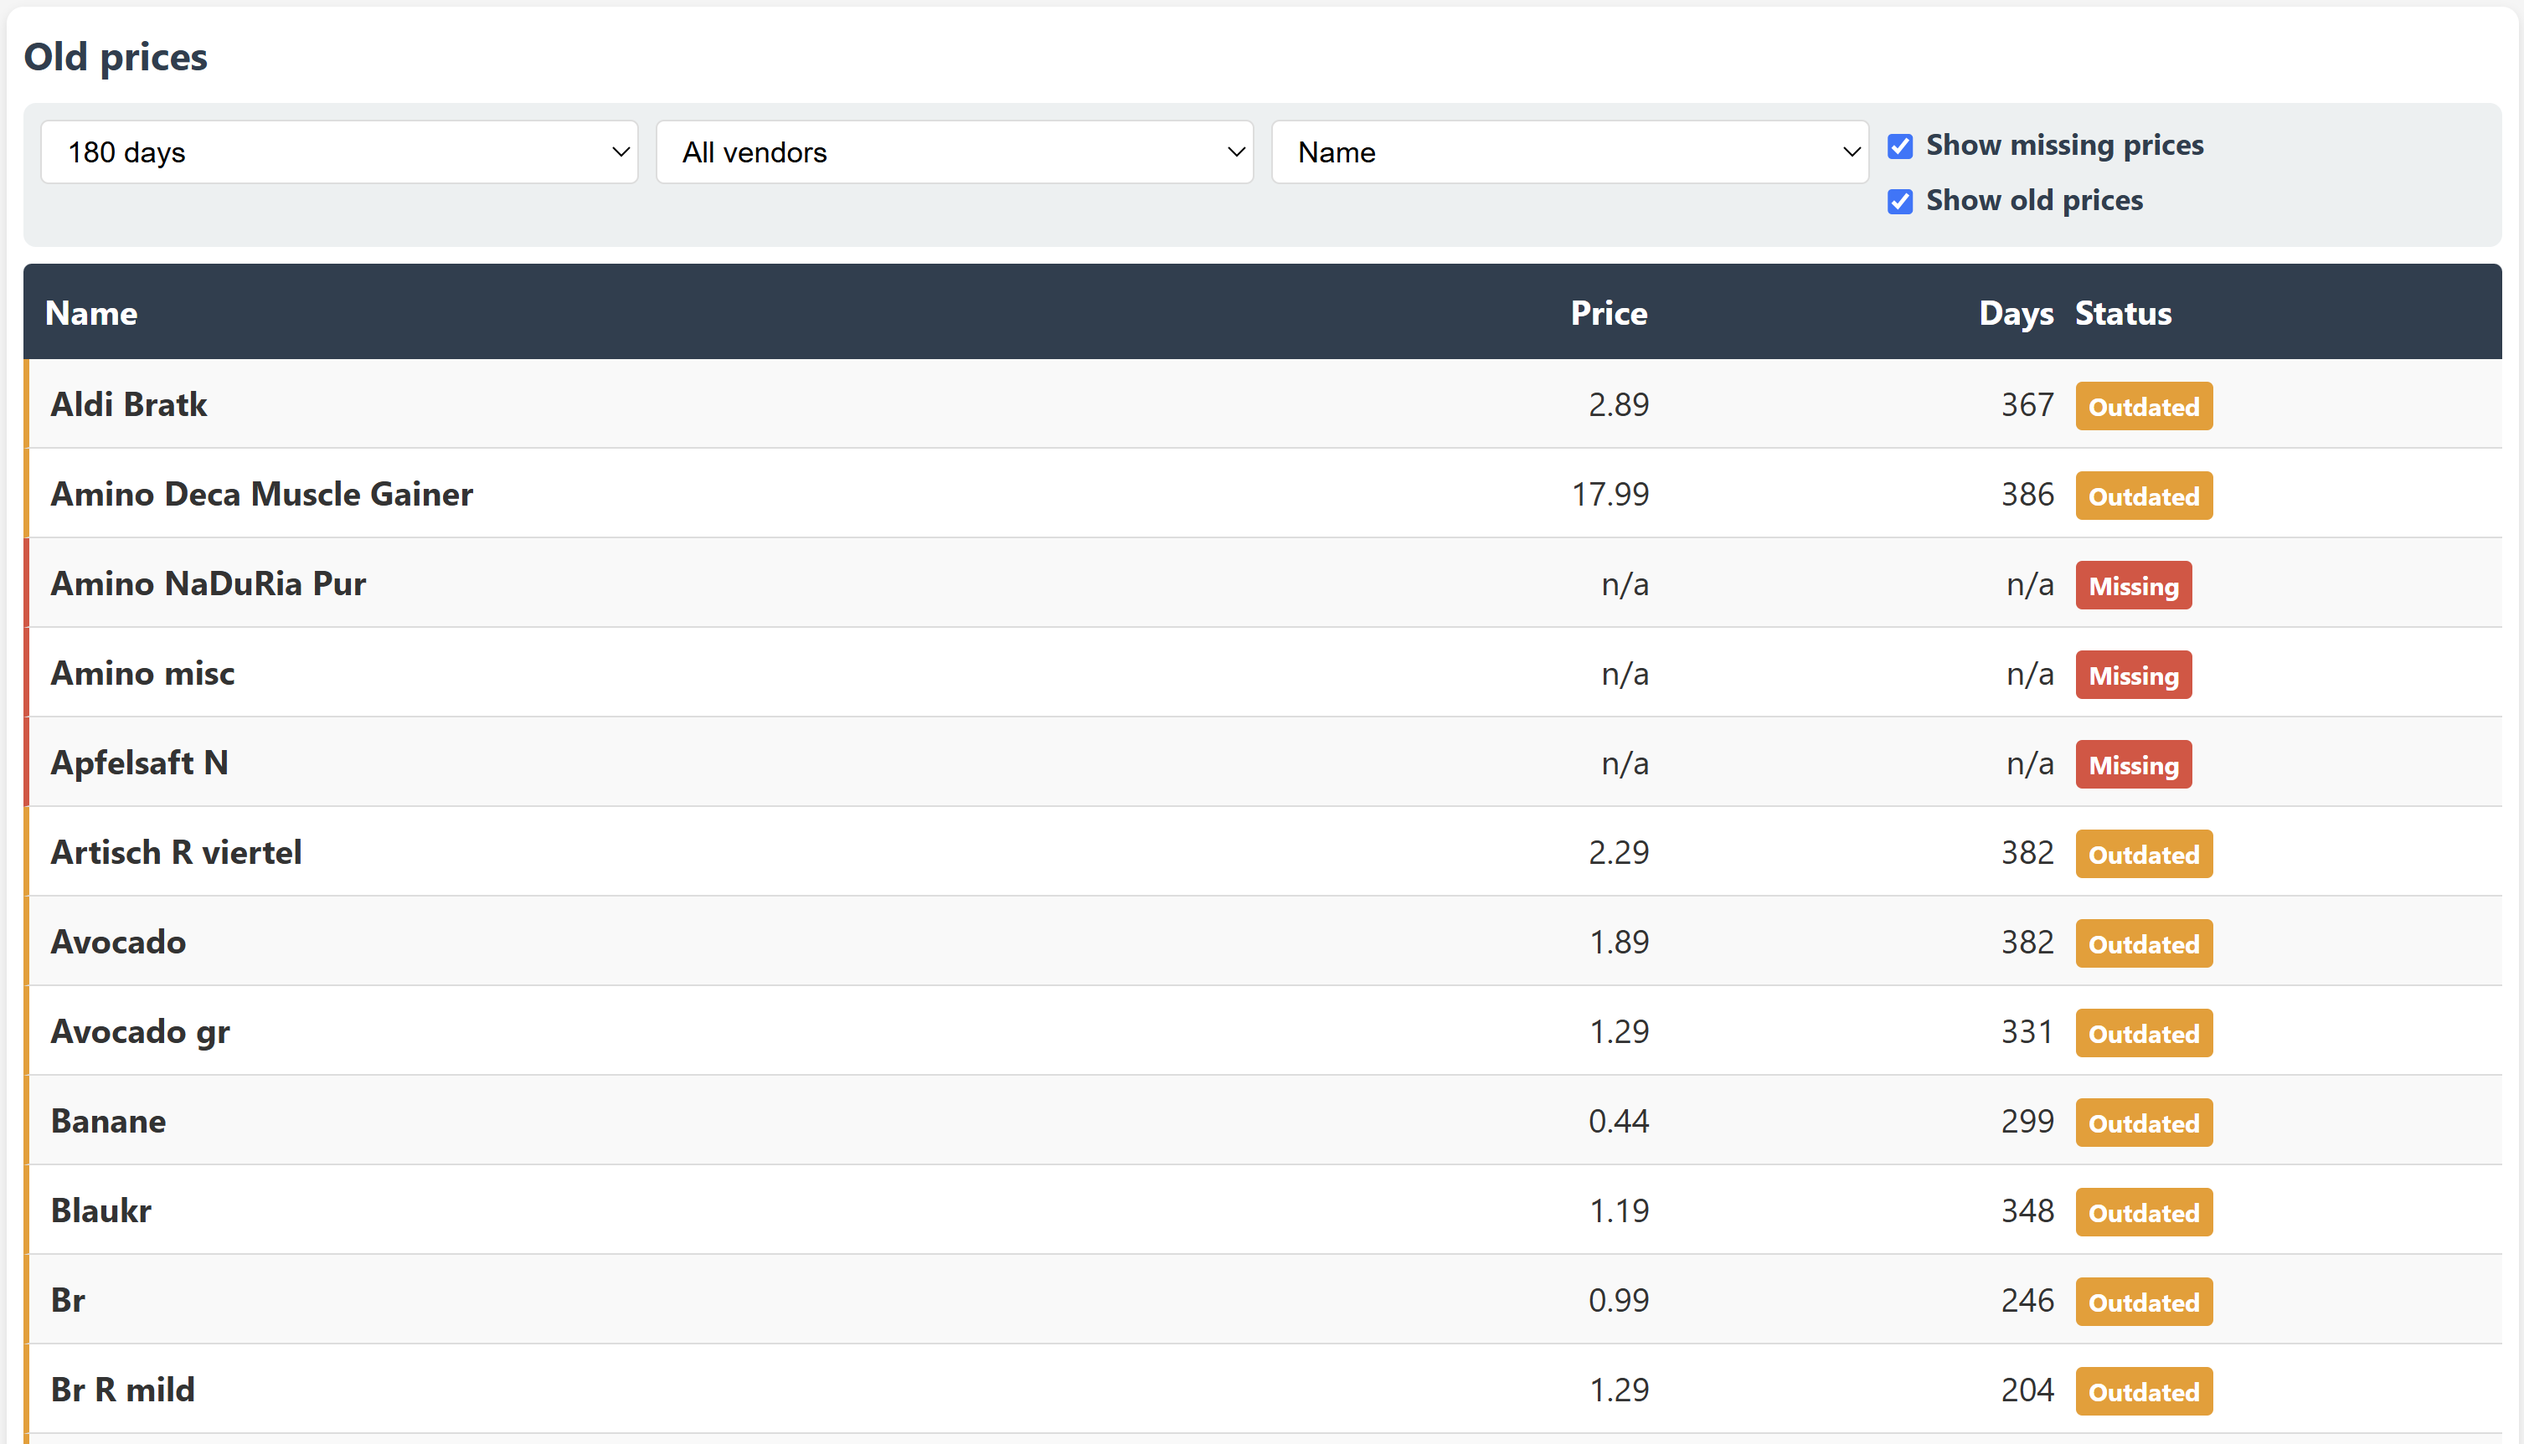
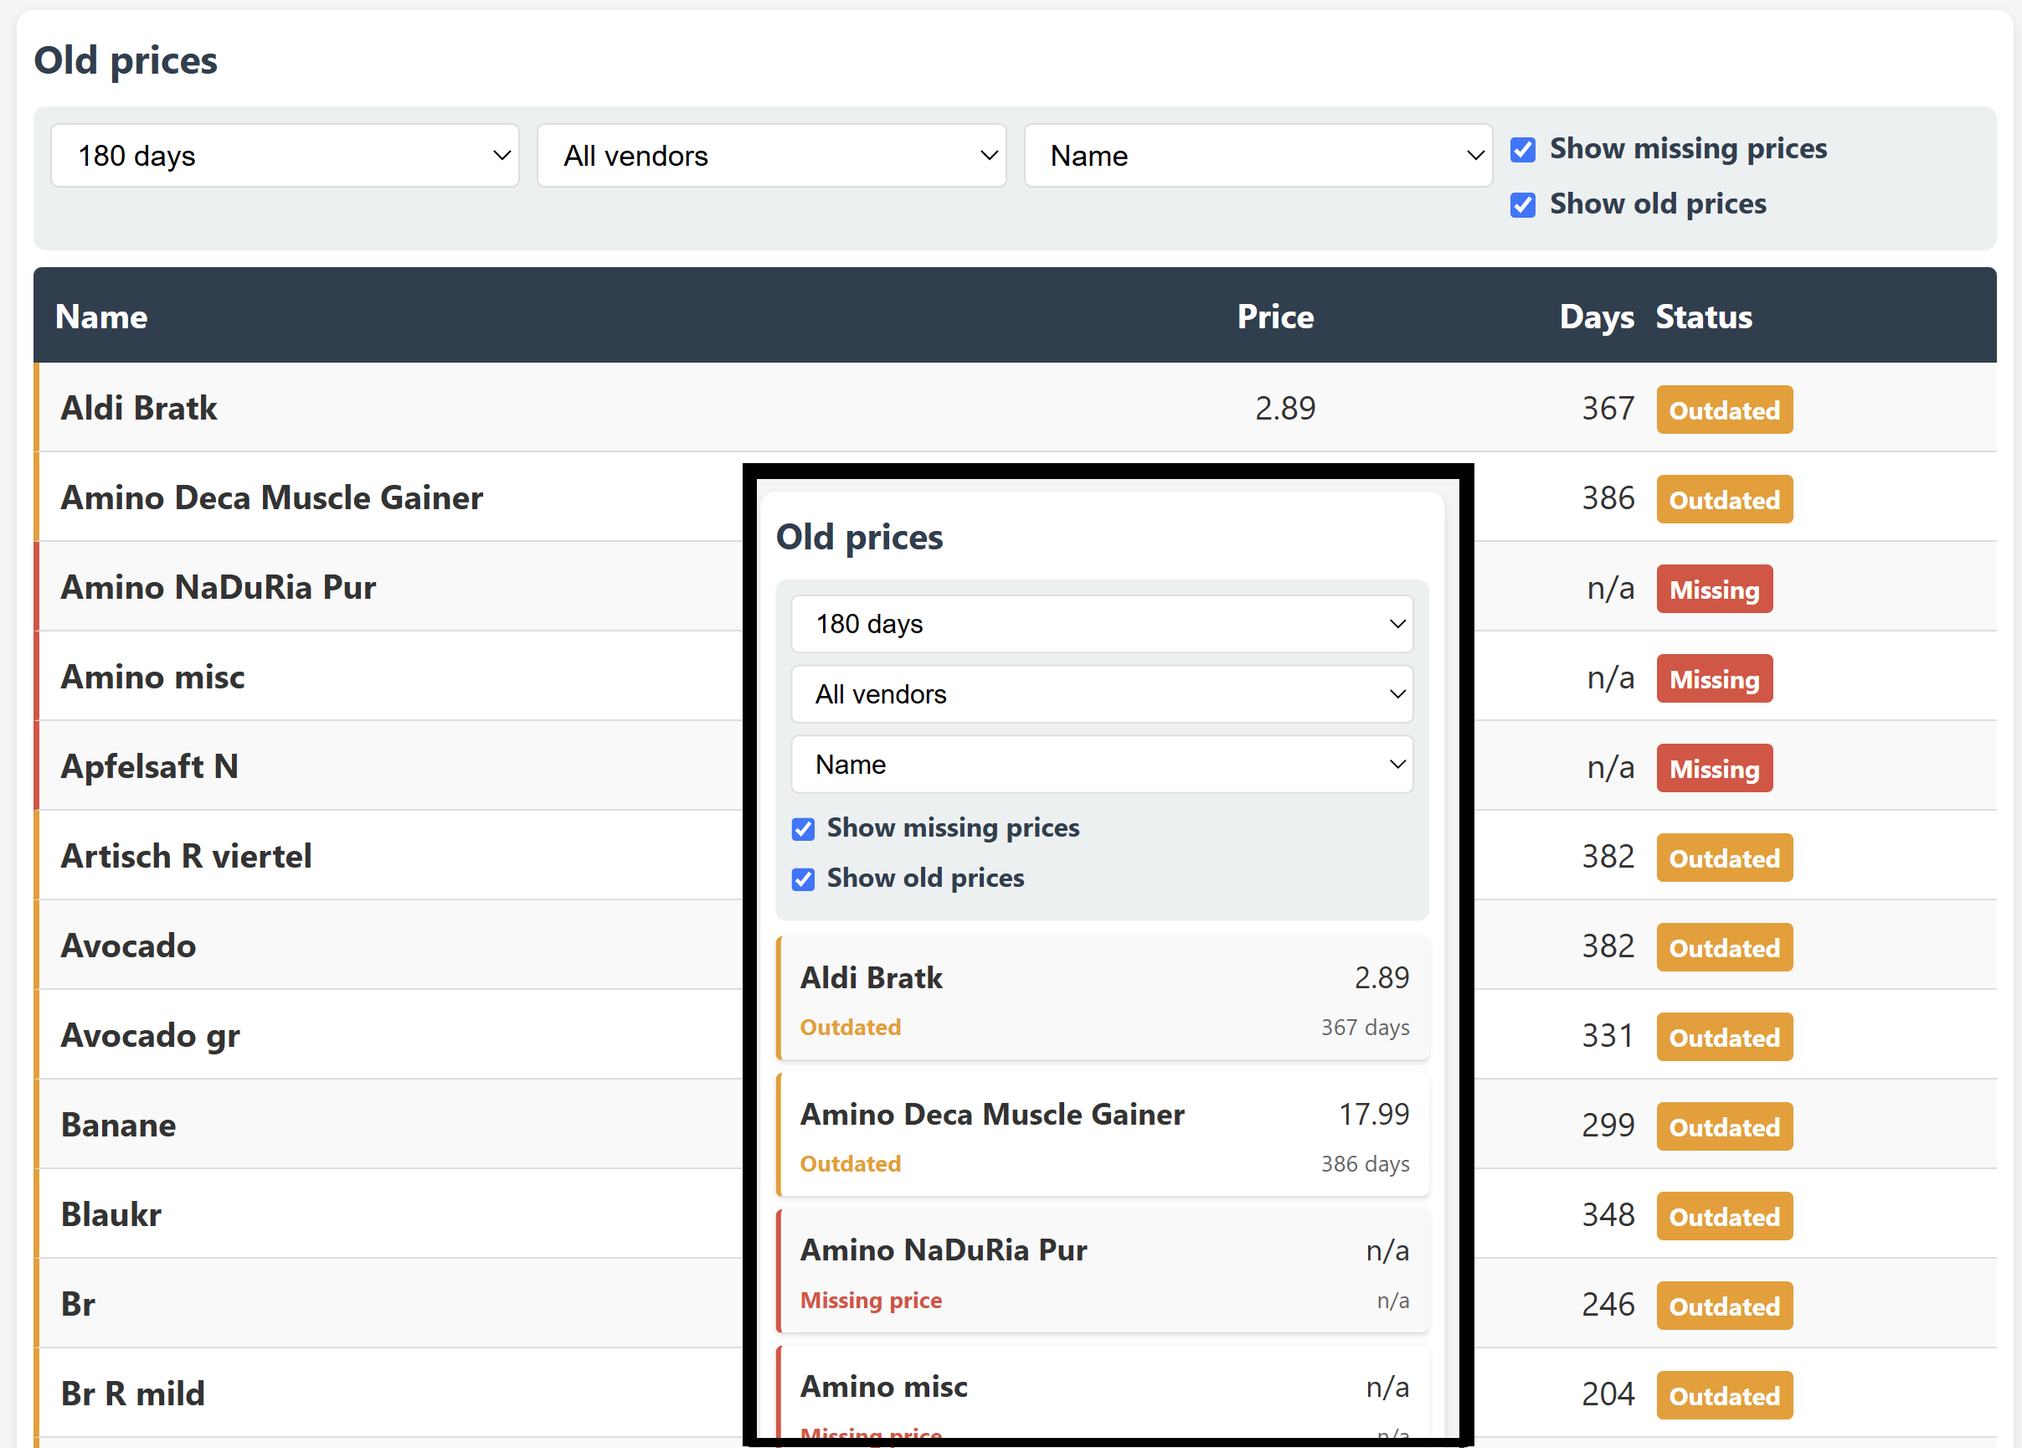
Sample image

diff --git a/src/samples.html b/src/samples.html
@@ -80,6 +80,7 @@
       width: 100%;
       height: 100%;
       object-fit: cover;
+      object-position: left top;
       transition: transform var(--transition-normal);
     }
     
@@ -164,7 +165,7 @@
         <div class="sample-card">
           <div class="sample-info">
             <div class="sample-name">Table view for price data</div>
-            <div class="sample-description">Quickly made in only 2-3 hours with AI. Based on existing price data this view identifies outdated (old) price data or missing prices. It features table layout on PC while the table is shown as iOS style cells on mobile. This feature was made from scratch with no use of any existing libraries.</div>
+            <div class="sample-description">Quickly made in only 2-3 hours with AI. Based on existing price data this view identifies outdated (old) price data or missing prices. It features table layout on PC while the table is shown in iOS cell style on mobile. This feature was made from scratch with AI and no use of any existing libraries.</div>
           </div>
           <div class="sample-image-container">
             <img src="samples/food_prices_1.png" alt="Price view" class="sample-image">
